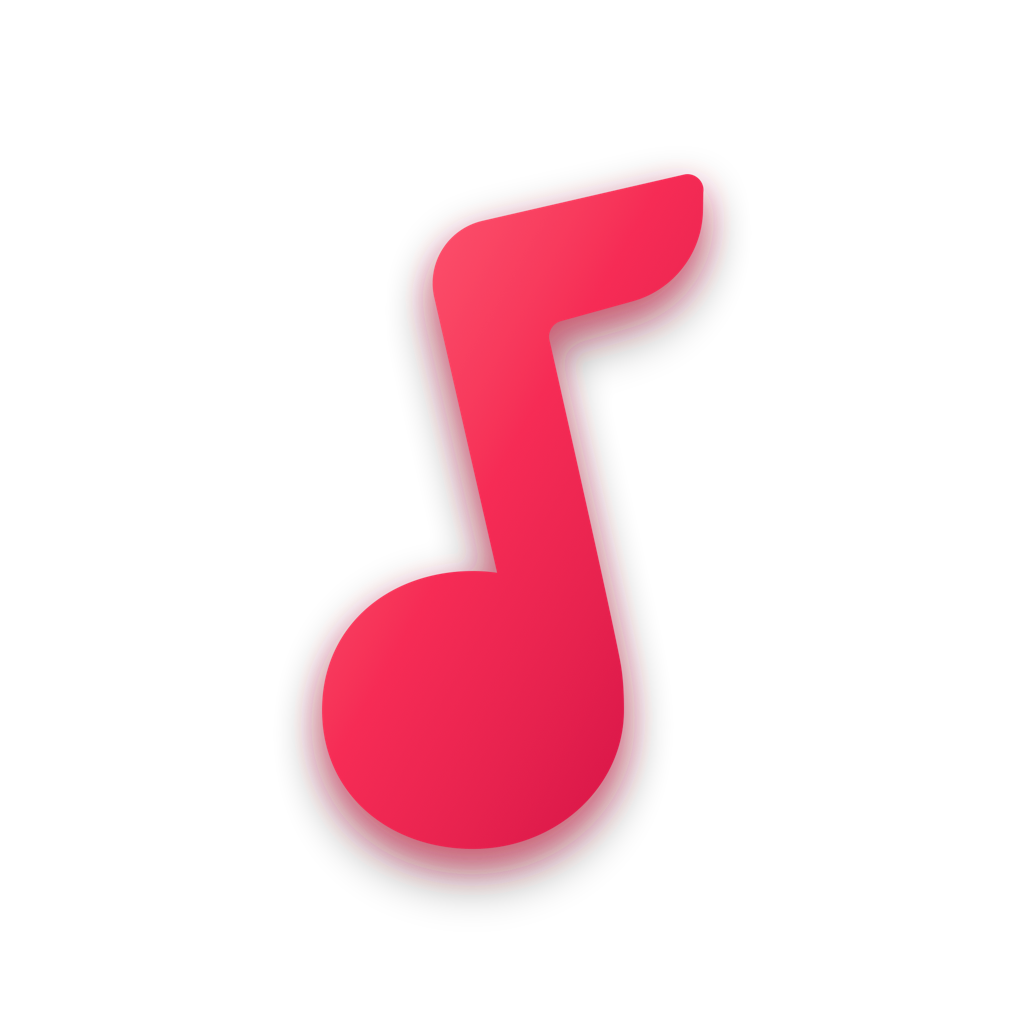
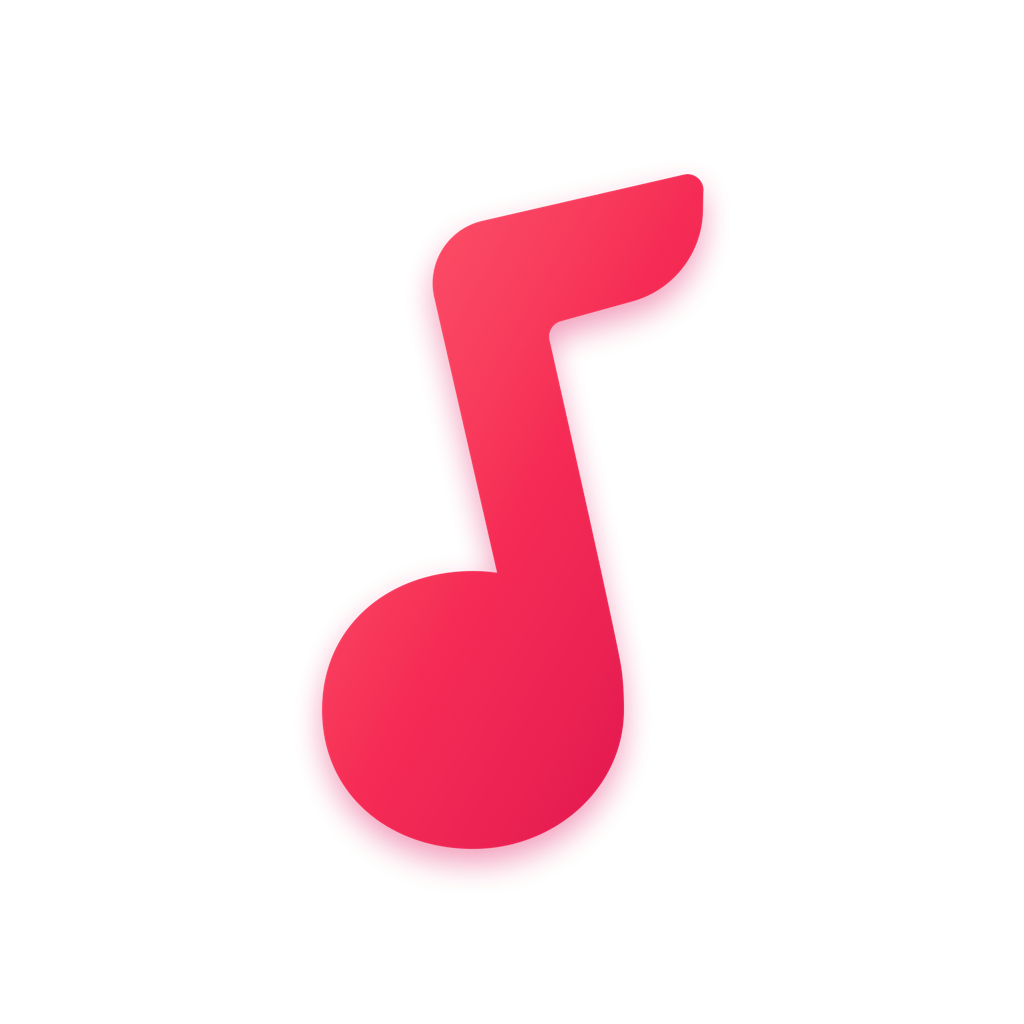
chore(mobile): 图标微调 + mini-player/专辑详情改动 buildNumber 35

Changed region(s): [[0.2812, 0.1875, 0.7188, 0.875], [0.375, 0.2188, 0.5, 0.5625], [0.3438, 0.5625, 0.375, 0.5938]]

diff --git a/apps/mobile/src/screens/album-detail.tsx b/apps/mobile/src/screens/album-detail.tsx
@@ -15,6 +15,7 @@ import { useQuery } from '@tanstack/react-query'
 import { MenuView, type MenuAction, type NativeActionEvent } from '@react-native-menu/menu'
 import type { Track } from '@qj/core-domain'
 import { AmbientHeaderBackground } from '@/components/ambient-header-background'
+import { CDSleeveCover } from '@/components/cd-sleeve-cover'
 import { CoverImage } from '@/components/cover-image'
 import { DetailPinnedToolbar } from '@/components/detail-pinned-toolbar'
 import { Icon, iconSize } from '@/components/icon'
@@ -31,7 +32,7 @@ import { useLocalFavoritesStore } from '@/lib/local-favorites'
 import { usePagedQuery } from '@/lib/paged-query'
 import { useServerSession } from '@/lib/server-session'
 import { tap } from '@/lib/haptics'
-import { formatAlbumReleaseDate, getAlbumAudioSpecBadge, getAlbumType } from '@/lib/album-meta'
+import { formatAlbumYear, getAlbumAudioSpecBadge } from '@/lib/album-meta'
 import { appendTracks, playTrackList, toggleShuffle } from '@/player/controller'
 import { selectCurrent, usePlayerStore } from '@/player/store'
 import { resolveAmbientPalette } from '@/theme/ambient-palette'
@@ -225,8 +226,7 @@ export function AlbumDetailScreen() {
 
   // 规格与数据统计
   const specBadge = useMemo(() => getAlbumAudioSpecBadge(items), [items])
-  const releaseDateText = useMemo(() => formatAlbumReleaseDate(album?.releaseDate), [album?.releaseDate])
-  const albumType = useMemo(() => getAlbumType(album, items), [album, items])
+  const formattedYear = useMemo(() => formatAlbumYear(album?.releaseDate), [album?.releaseDate])
   const totalDurationMs = useMemo(
     () => items.reduce((acc, track) => acc + (track.durationMs || 0), 0),
     [items],
@@ -345,16 +345,16 @@ export function AlbumDetailScreen() {
         onScroll={onScroll}
         ListHeaderComponent={
           <View style={styles.headerRoot} onLayout={(event) => setHeaderHeight(event.nativeEvent.layout.height)}>
-            {/* 上下居中排版：从上到下为专辑图、专辑名称、艺人、发行日期·类型·音质 */}
+            {/* 上下居中排版：从上到下为 CD 盒大封套、专辑大标题、艺人、年份 · 音质规格 */}
             <View style={styles.coverBlock}>
-              {/* 1. 专辑图：悬浮大封面 (210×210pt)，带环境光深邃投影与下拉阻尼弹性放大 */}
+              {/* 1. CD 实体大封套，带微透高光与环境光深邃投影 */}
               <Animated.View style={[styles.coverContainer, coverAnimatedStyle]}>
-                <View style={[styles.coverShadowWrapper, { shadowColor: palette.primary }]}>
-                  <CoverImage coverId={album.coverId} size={210} borderRadius={16} />
+                <View style={[styles.coverGlow, { shadowColor: palette.primary }]}>
+                  <CDSleeveCover coverId={album.coverId} width={260} />
                 </View>
               </Animated.View>
 
-              {/* 2. 专辑名称（居中纯白加粗大标题） */}
+              {/* 2. 专辑大标题（居中纯白加粗） */}
               <Text style={styles.name} numberOfLines={2}>
                 {album.name}
               </Text>
@@ -379,18 +379,18 @@ export function AlbumDetailScreen() {
                 </Text>
               )}
 
-              {/* 4. 发行日期 · 类型 · 音质 */}
-              <View style={styles.metaRow}>
-                {releaseDateText ? <Text style={styles.metaText}>{releaseDateText}</Text> : null}
-                {releaseDateText && albumType ? <Text style={styles.metaDot}>·</Text> : null}
-                {albumType ? <Text style={styles.metaText}>{albumType}</Text> : null}
-                {(releaseDateText || albumType) && specBadge ? <Text style={styles.metaDot}>·</Text> : null}
-                {specBadge ? (
-                  <View style={styles.specBadge} accessible accessibilityLabel={`音频规格 ${specBadge}`}>
-                    <Text style={styles.specBadgeText}>{specBadge}</Text>
-                  </View>
-                ) : null}
-              </View>
+              {/* 4. 精炼元数据：年份 · 音频规格微型药丸 */}
+              {formattedYear || specBadge ? (
+                <View style={styles.metaRow}>
+                  {formattedYear ? <Text style={styles.metaText}>{formattedYear}</Text> : null}
+                  {formattedYear && specBadge ? <Text style={styles.metaDot}>·</Text> : null}
+                  {specBadge ? (
+                    <View style={styles.specBadge} accessible accessibilityLabel={`音频规格 ${specBadge}`}>
+                      <Text style={styles.specBadgeText}>{specBadge}</Text>
+                    </View>
+                  ) : null}
+                </View>
+              ) : null}
 
               {/* 核心双动作胶囊：同级等权半透微质感磨砂胶囊 */}
               <View style={styles.actions}>
@@ -513,12 +513,11 @@ const useStyles = createThemedStyles((colors) => ({
     alignItems: 'center',
     justifyContent: 'center',
   },
-  coverShadowWrapper: {
+  coverGlow: {
     shadowOffset: { width: 0, height: 12 },
-    shadowOpacity: 0.36,
-    shadowRadius: 22,
+    shadowOpacity: 0.35,
+    shadowRadius: 24,
     elevation: 10,
-    borderRadius: 16,
   },
   name: {
     ...typography.title,

diff --git a/apps/mobile/src/components/mini-player.tsx b/apps/mobile/src/components/mini-player.tsx
@@ -2,6 +2,7 @@ import { Platform, Pressable, StyleSheet, Text, View } from 'react-native'
 import { BlurView } from 'expo-blur'
 import { useRouter, useSegments } from 'expo-router'
 import { useIsPlaying, useProgress } from 'react-native-track-player'
+import Svg, { Path } from 'react-native-svg'
 import { CoverImage } from '@/components/cover-image'
 import { IconButton, iconSize } from '@/components/icon'
 import { MarqueeText } from '@/components/marquee-text'
@@ -12,8 +13,21 @@ import { useIsAudioLoading } from '@/player/use-audio-loading'
 import { radius, spacing, typography } from '@/theme/tokens'
 import { createThemedStyles, useAppTheme } from '@/theme/theme-provider'
 
-/** 底部进度线的高度 */
-const PROGRESS_HEIGHT = 2
+const ARTWORK_SIZE = 40
+const FRAME_SIZE = 48
+const STROKE_WIDTH = 2
+const ARTWORK_RADIUS = 5
+/**
+ * 48×48 外部描边路径（从 12 点钟方向顺时针）：
+ * 画布 48×48，线宽 2pt，中心线内缩 1pt。
+ * 中心线矩形范围：x: 1~47 (宽 46), y: 1~47 (高 46), 内圆角 r = 8。
+ * 外轮廓曲率 8 + 1 = 9，内边缘曲率 8 - 1 = 7。
+ * 内部居中放置 40×40 封面 (圆角 5)，四周留 2pt 悬浮微缝，同心圆角严格等距。
+ */
+const STROKE_PATH =
+  'M 24 1 L 39 1 A 8 8 0 0 1 47 9 L 47 39 A 8 8 0 0 1 39 47 L 9 47 A 8 8 0 0 1 1 39 L 1 9 A 8 8 0 0 1 9 1 L 24 1 Z'
+/** 直线段 15 + 30 + 30 + 30 + 15 = 120，四角圆弧 2 * π * 8 ≈ 50.265，总周长 ≈ 170.265 */
+const STROKE_PERIMETER = 120 + 16 * Math.PI
 
 /** iOS 有真毛玻璃（UIVisualEffectView），Android 上 BlurView 不可靠 —— 所以两端一律用实心底，不引入 BlurView */
 
@@ -22,7 +36,7 @@ const PROGRESS_HEIGHT = 2
  *
  * 底色必须**挡住**下面滚动的内容——之前用白 10% 的半透明，列表文字会透上来，
  * 和背景糊在一起。现在 iOS 是「毛玻璃 + 深色蒙层」，Android 是实心底，
- * 再加一圈描边把它和页面分开。底部一条 2pt 的细线显示播放进度。
+ * 再加一圈描边把它和页面分开。封面四周顺时针呈现圆角矩形描边显示播放进度。
  * 固定停靠在底部，不使用任何入场/出场/位移动画。
  */
 export function MiniPlayer() {
@@ -64,7 +78,36 @@ export function MiniPlayer() {
           accessibilityRole="button"
           accessibilityLabel={`正在播放 ${current.title}，点击展开播放页`}
         >
-          <CoverImage resource={current.artwork} size={44} borderRadius={radius.sm} />
+          <View style={styles.artworkWrapper}>
+            <CoverImage resource={current.artwork} size={ARTWORK_SIZE} borderRadius={ARTWORK_RADIUS} />
+            <Svg
+              width={FRAME_SIZE}
+              height={FRAME_SIZE}
+              viewBox={`0 0 ${FRAME_SIZE} ${FRAME_SIZE}`}
+              style={StyleSheet.absoluteFill}
+              pointerEvents="none"
+            >
+              {/* 浅灰底轨：外部环绕封面 */}
+              <Path
+                d={STROKE_PATH}
+                stroke={colors.playerProgressTrack}
+                strokeWidth={STROKE_WIDTH}
+                fill="none"
+              />
+              {/* 品牌色进度高亮描边：从 12 点钟方向顺时针推进 */}
+              {ratio > 0.001 ? (
+                <Path
+                  d={STROKE_PATH}
+                  stroke={colors.playing}
+                  strokeWidth={STROKE_WIDTH}
+                  fill="none"
+                  strokeLinecap="round"
+                  strokeDasharray={`${STROKE_PERIMETER} ${STROKE_PERIMETER}`}
+                  strokeDashoffset={STROKE_PERIMETER * (1 - ratio)}
+                />
+              ) : null}
+            </Svg>
+          </View>
           <View style={styles.text}>
             <MarqueeText text={current.title} style={styles.title} />
             <Text numberOfLines={1} style={styles.artist}>
@@ -91,12 +134,6 @@ export function MiniPlayer() {
             accessibilityLabel="下一首"
           />
         </Pressable>
-        {/* 底部细进度线：轨道铺满，填充按比例增长（对齐 Apple Music 迷你条） */}
-        {ratio > 0 ? (
-          <View style={styles.progressTrack} pointerEvents="none">
-            <View style={[styles.progressFill, { width: `${ratio * 100}%` }]} />
-          </View>
-        ) : null}
     </View>
   )
 }
@@ -115,20 +152,18 @@ const useStyles = createThemedStyles((colors) => ({
     flexDirection: 'row',
     alignItems: 'center',
     gap: spacing.sm,
-    paddingLeft: spacing.md,
+    paddingLeft: spacing.sm,
     paddingRight: spacing.xs,
     paddingVertical: spacing.sm,
+  },
+  artworkWrapper: {
+    width: FRAME_SIZE,
+    height: FRAME_SIZE,
+    alignItems: 'center',
+    justifyContent: 'center',
+    position: 'relative',
   },
   text: { flex: 1, gap: 2 },
   title: { ...typography.subhead, color: colors.textPrimary },
   artist: { ...typography.caption, color: colors.textSecondary },
-  progressTrack: {
-    position: 'absolute',
-    left: 0,
-    right: 0,
-    bottom: 0,
-    height: PROGRESS_HEIGHT,
-    backgroundColor: colors.playerProgressTrack,
-  },
-  progressFill: { height: PROGRESS_HEIGHT, backgroundColor: colors.iconBright },
 }))
